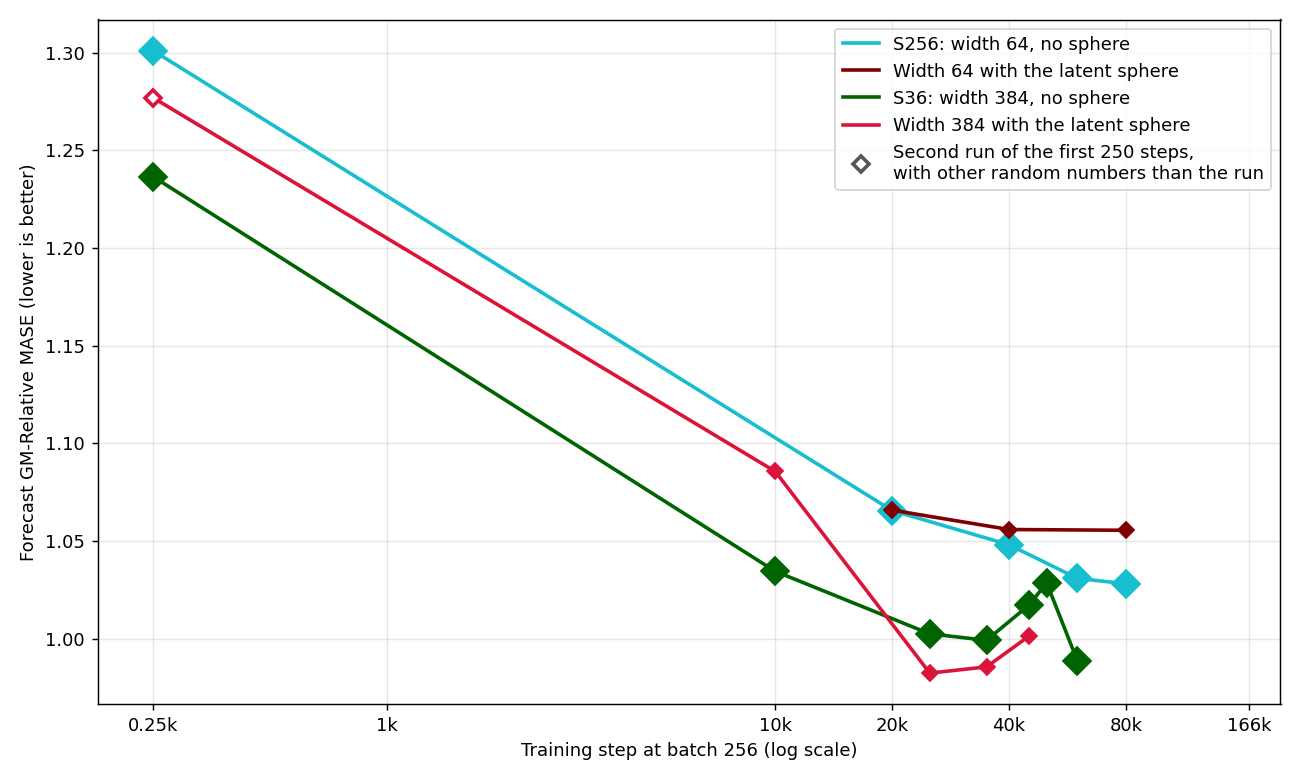
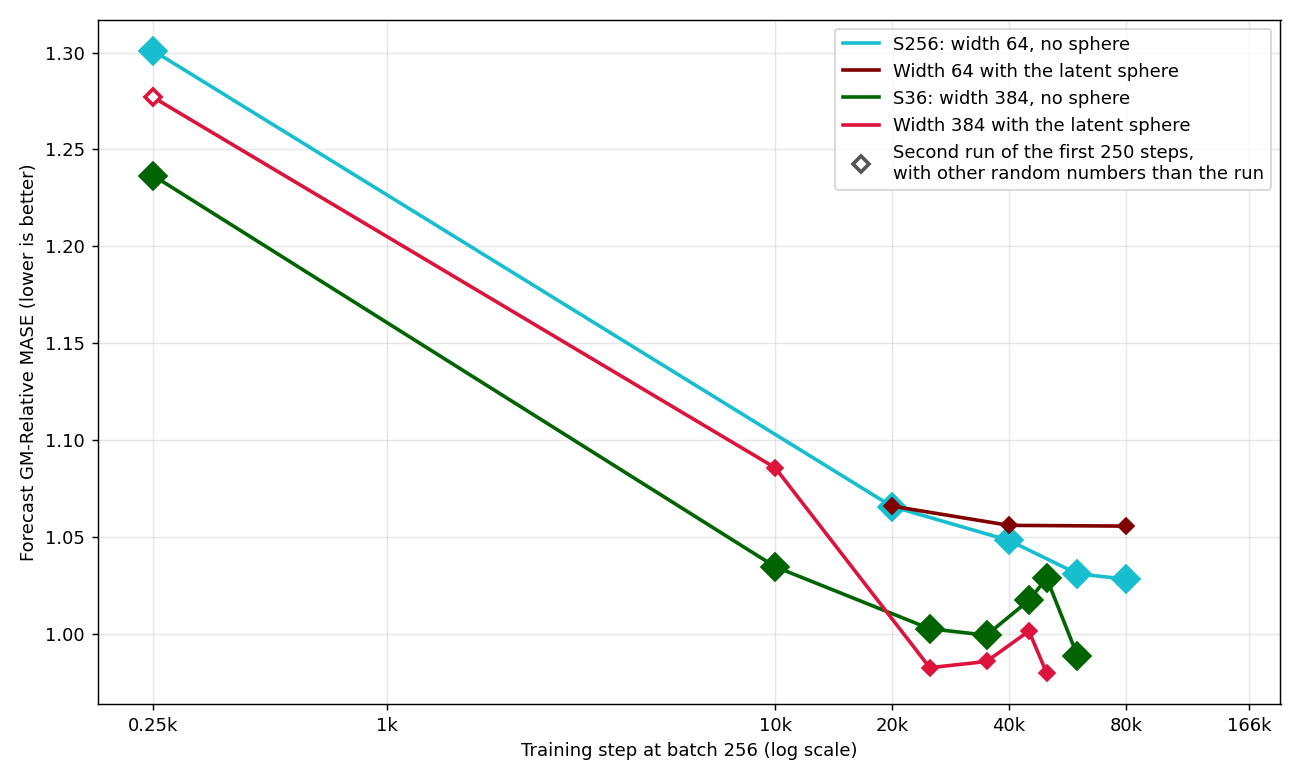
freq_family report: SPH36 at 50k, 0.9796

diff --git a/reports/2026-10-10_frequency_family_head/frequency_family_head.md b/reports/2026-10-10_frequency_family_head/frequency_family_head.md
@@ -37,7 +37,7 @@ At 50k, they are 0.9274, 1.1775 and 1.1787, and MPE gets 0.9831.
 From 45k to 50k, the short score rises and the medium and long scores fall, and the training loss of the head falls to 0.1728.
 At 60k, they are 0.8900, 1.1455 and 1.1233.
 Its GM, 0.9886, is the lowest score of S36, and the training loss of the head falls to 0.1723.
-SPH36 is S36 with the latent sphere, scored with the head path of #454: 1.2769 after 250 steps, 1.0856 at 10k, 0.9824 at 25k, 0.9856 at 35k and 1.0013 at 45k.
+SPH36 is S36 with the latent sphere, scored with the head path of #454: 1.2769 after 250 steps, 1.0856 at 10k, 0.9824 at 25k, 0.9856 at 35k, 1.0013 at 45k and 0.9796 at 50k.
 An open marker shows its point after 250 steps: it comes from a second run with other random numbers than the run.
 S24 is S36 with 2 encoder and 4 forecaster layers.
 After 250 steps, it gets 1.2359 (S36 1.2365), from a save of the run itself.
@@ -155,6 +155,7 @@ At 10k, the sphere run is 0.0511 higher, mostly on the medium and long horizons.
 At 25k, it gets 0.9824 (short 0.8810, medium 1.1481, long 1.1179): 0.0201 lower than S36 and 0.0017 lower than MPE (0.9841).
 At 35k, it gets 0.9856 (short 0.8894, medium 1.1327, long 1.1227), 0.0136 lower than S36.
 At 45k, it gets 1.0013 (short 0.9065, medium 1.1457, long 1.1353), 0.0159 lower than S36.
+At 50k, it gets 0.9796 (short 0.8787, medium 1.1304, long 1.1284): 0.0490 lower than S36 and 0.0035 lower than MPE (0.9831).
 The point of the sphere run after 250 steps comes from a second run of its first 250 steps on elisa, with torch 2.8.0.
 The run trained on the box with torch 2.9.1, and the losses already differ at step 1 (55.33 and 55.42), so an open marker shows the point.
 The heatmap has its row.
